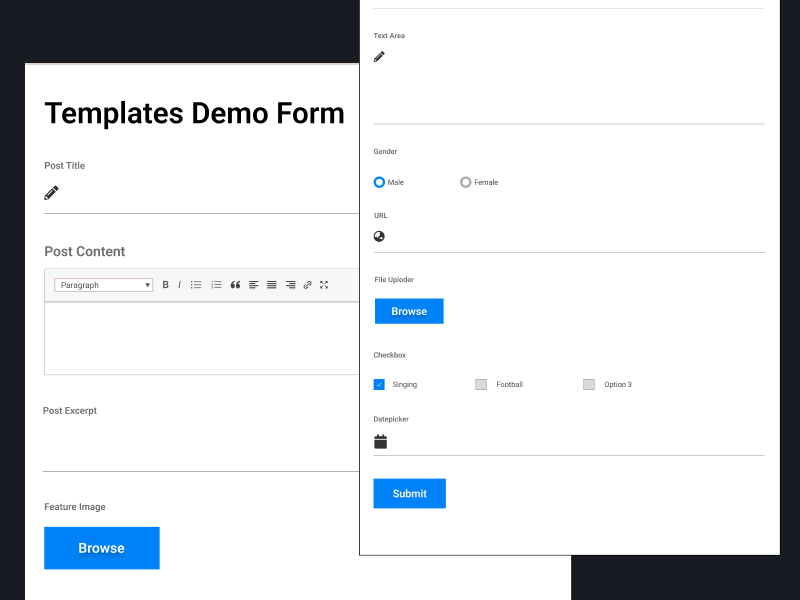
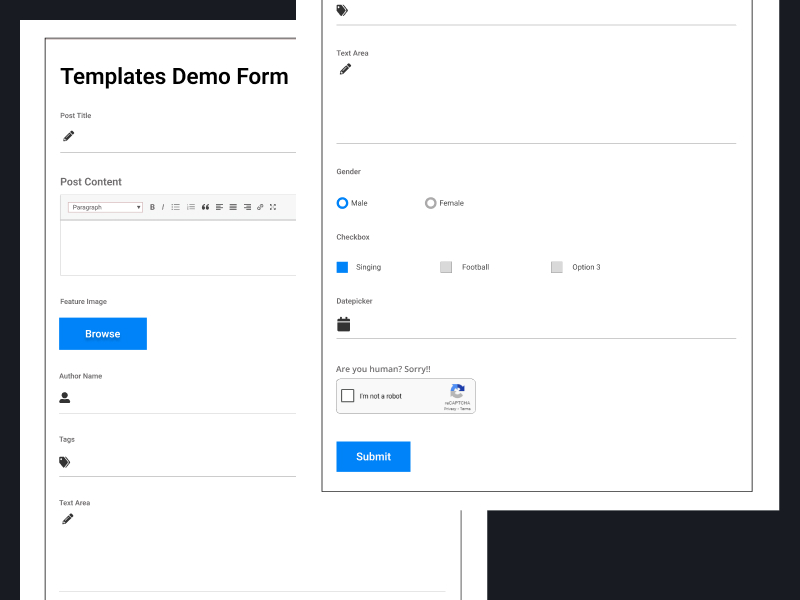
preview image refined

diff --git a/assets/css/fpsm-frontend-style.css b/assets/css/fpsm-frontend-style.css
@@ -4849,18 +4849,19 @@ form.fpsm-front-form.fpsm-template-32:before {
 form.fpsm-front-form.fpsm-template-32 .fpsm-bg-pattern {
   display: block;
 }
-form.fpsm-front-form.fpsm-template-32 .fpsm-bg-pattern .fpsm-bg-2 {
-  position: absolute;
-  background: url("../images/temp-32-bg-right.png");
-  min-width: 345px;
-  min-height: 327px;
-  max-height: 639px;
-  max-width: 500px;
-  height: -webkit-fill-available;
-  background-repeat: no-repeat;
-  bottom: 20%;
-  background-size: 100% 100%;
-  right: 0;
+.fpsm-template-33 .fspm-title-wrap h2 {
+    text-align: center;
+    font-size: 56px;
+    font-weight: bold;
+    font-family: "Open Sans", sans-serif;
+    color: #fff;
+    padding: 20px 0px !important;
+    margin-bottom: 50px !important;
+    background: linear-gradient(90.73deg, #62B9BF -5.83%, #6AC7CE 114.11%);
+    margin-top: 40px !important;
+    width: 104%;
+    right: 2%;
+    position: relative;
 }
 form.fpsm-front-form.fpsm-template-32 .fpsm-bg-pattern .fpsm-bg-1 {
   background: url("../images/temp-32-bg-left.png");
@@ -4877,7 +4878,22 @@ form.fpsm-front-form.fpsm-template-32 .fpsm-bg-pattern .fpsm-bg-1 {
 }
 
 /* Template 33 */
-
+.fpsm-template-33 .fspm-title-wrap h2::before {
+    content: "";
+    position: absolute;
+    border-top: 19px solid #94DEE3;
+    border-right: 19px solid transparent;
+    right: 0;
+    top: 100%;
+}
+.fpsm-template-33 .fspm-title-wrap h2::after {
+    content: "";
+    position: absolute;
+    border-top: 19px solid #94DEE3;
+    border-left: 19px solid transparent;
+    left: 0;
+    top: 100%;
+}
 
 .fpsm-template-33 .fspm-title-wrap h2 {
     text-align: center;
@@ -4895,9 +4911,9 @@ form.fpsm-front-form.fpsm-template-32 .fpsm-bg-pattern .fpsm-bg-1 {
 }
 .fpsm-front-form.fpsm-template-33 {
     background-color: #fff;
-    padding: 0px;
+    padding: 40px;
 }
-.fpsm-front-form.fpsm-template-33 {
+.fpsm-front-form.fpsm-template-33 .fspm-form-wrapper {
     background-color: #fff;
     padding: 0px;
     border: 1px solid #797777;
@@ -5460,6 +5476,14 @@ form.fpsm-front-form.fpsm-template-31 .fpsm-bg-pattern .fpsm-bg-3 {
 .fpsm-template-34 .fspm-form-field-wrap {
   padding: 20px 10px;
   border: 1px solid #000000;
+}
+.fpsm-template-33 .fspm-title-wrap h2::before {
+    border-top: 12px solid #94DEE3;
+    border-right: 8px solid transparent;
+}
+.fpsm-template-33 .fspm-title-wrap h2::after {
+    border-top: 12px solid #94DEE3;
+    border-left: 8px solid transparent;
 }
 }
 

diff --git a/includes/classes/class-fpsm-shortcode.php b/includes/classes/class-fpsm-shortcode.php
@@ -42,7 +42,9 @@ if (!class_exists('FPSM_Shortcode')) {
                 wp_enqueue_style('fpsm-login-style', FPSM_URL . '/assets/css/fpsm-login-form-style.css', array(), FPSM_VERSION);
             }
             wp_enqueue_style('fpsm-fonts', FPSM_URL . '/assets/font-face/NunitoSans/stylesheet.css', array(), FPSM_VERSION);
-            wp_enqueue_style('fpsm-fonts', FPSM_URL . '/assets/font-face/comingsoon/stylesheet.css', array(), FPSM_VERSION);
+            wp_enqueue_style('fpsm-fonts-1', FPSM_URL . '/assets/font-face/comingsoon/stylesheet.css', array(), FPSM_VERSION);
+            wp_enqueue_style('fpsm-fonts-3', FPSM_URL . '/assets/font-face/lobstertwo/stylesheet.css', array(), FPSM_VERSION);
+            wp_enqueue_style('fpsm-fonts-4', FPSM_URL . '/assets/font-face/playlist/stylesheet.css', array(), FPSM_VERSION);
             if (empty($fpsm_settings['disable_jquery_ui_css'])) {
                 wp_enqueue_style('jquery-ui', FPSM_URL . '/assets/css/jquery-ui.min.css', array(), FPSM_VERSION);
             }
